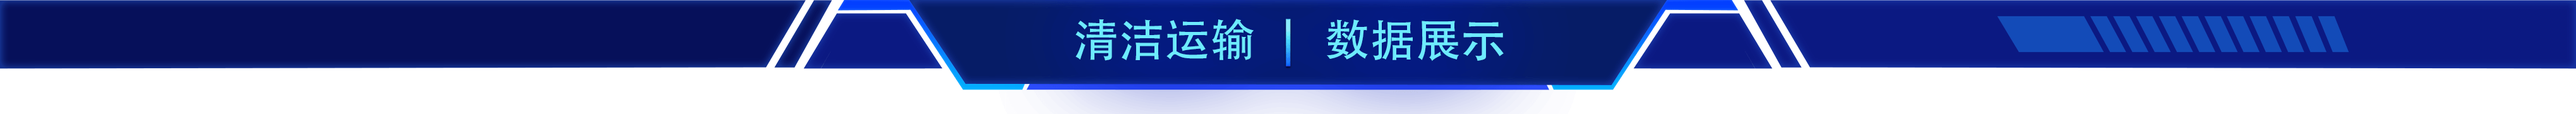
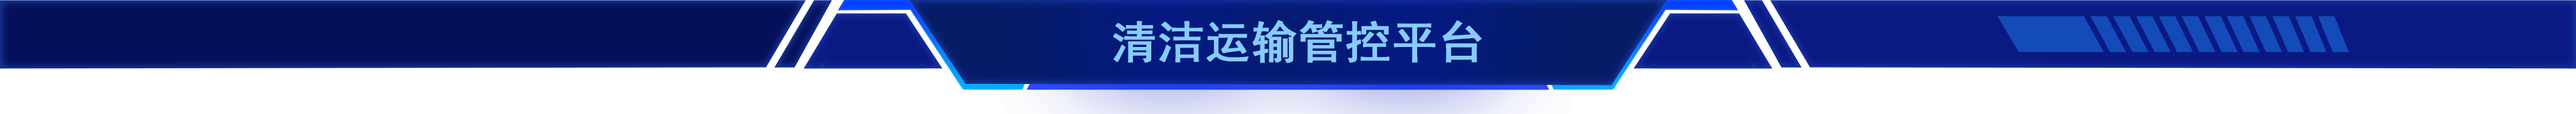
车辆运输表格更改,系统名字修改

Changed region(s): [[0.4048, 0.1648, 0.5916, 0.5495]]

diff --git a/html/view.html b/html/view.html
@@ -4,7 +4,7 @@
     <meta charset="UTF-8">
     <meta http-equiv='X-UA-Compatible' content='IE=edge,chrome=1'/>
     <meta name="viewport" content="width=device-width, initial-scale=1">
-    <title>清洁运输数据展示</title>
+    <title>清洁运输管控平台</title>
     <link rel="stylesheet" href="https://cdn.jsdelivr.net/npm/bootstrap@3.3.7/dist/css/bootstrap.min.css"
           integrity="sha384-BVYiiSIFeK1dGmJRAkycuHAHRg32OmUcww7on3RYdg4Va+PmSTsz/K68vbdEjh4u" crossorigin="anonymous">
     <link rel="stylesheet" href="../css/reset.css">
@@ -30,107 +30,167 @@
                             <thead>
                             <tr>
                                 <th>进厂时间</th>
+                                <th>进厂过磅时间</th>
+                                <th>出厂过磅时间</th>
                                 <th>出厂时间</th>
                                 <th>照片</th>
-                                <th>运输单位</th>
-                                <th>集装箱号</th>
+                                <th>门岗名称</th>
+                                <th>磅房名称</th>
                                 <th>车牌号</th>
                                 <th>注册日期</th>
                                 <th>车辆识别代号(VIN)</th>
                                 <th>发动机号码</th>
-                                <th>排放阶段</th>
+                                <th>燃油种类</th>
                                 <th>随车清单</th>
                                 <th>行驶证</th>
-                                <th>运输货物名称</th>
-                                <th>运输量(吨)</th>
-                                <th>车队名称</th>
+                                <th>排放阶段</th>
+                                <th>供应商</th>
+                                <th>物料编码</th>
+                                <th>物料名称</th>
+                                <th>计量单号</th>
+                                <th>毛重</th>
+                                <th>皮重</th>
+                                <th>净重</th>
+                                <th>集装箱号</th>
+                                <th>运输方式</th>
+                                <th>运输单位</th>
                             </tr>
                             </thead>
                             <tbody class>
                                 <tr>
                                     <td>2020-7-22 10:00:0</td>
+                                    <td>2020-7-22 10:00:0</td>
+                                    <td>2020-7-22 17:00:0</td>
                                     <td>2020-7-22 17:00:0</td>
                                     <td><img class="table-img" src="../img/test.jpg" alt=""></td>
-                                    <td>公司名字</td>
+                                    <td>名字</td>
+                                    <td>名字</td>
                                     <td>99999999</td>
-                                    <td>12345</td>
                                     <td>2020-7-21 17:00:0</td>
+                                    <td>12345</td>
                                     <td>777</td>
-                                    <td>809889</td>
+                                    <td>柴油</td>
+                                    <td><img class="table-img" src="../img/test.jpg" alt=""></td>
+                                    <td><img class="table-img" src="../img/test.jpg" alt=""></td>
                                     <td>国0:0</td>
-                                    <td><img class="table-img" src="../img/test.jpg" alt=""></td>
-                                    <td><img class="table-img" src="../img/test.jpg" alt=""></td>
-                                    <td>钢渣</td>
+                                    <td>名字</td>
                                     <td>1</td>
-                                    <td>自有</td>
+                                    <td>物料1</td>
+                                    <td>888</td>
+                                    <td>2</td>
+                                    <td>4</td>
+                                    <td>6</td>
+                                    <td>999999</td>
+                                    <td>铁路</td>
+                                    <td>公司1</td>
                                 </tr>
                                 <tr>
                                     <td>2020-7-22 10:00:0</td>
+                                    <td>2020-7-22 10:00:0</td>
+                                    <td>2020-7-22 17:00:0</td>
                                     <td>2020-7-22 17:00:0</td>
                                     <td><img class="table-img" src="../img/test.jpg" alt=""></td>
-                                    <td>公司名字</td>
+                                    <td>名字</td>
+                                    <td>名字</td>
                                     <td>99999999</td>
-                                    <td>12345</td>
                                     <td>2020-7-21 17:00:0</td>
+                                    <td>12345</td>
                                     <td>777</td>
-                                    <td>809889</td>
+                                    <td>柴油</td>
+                                    <td><img class="table-img" src="../img/test.jpg" alt=""></td>
+                                    <td><img class="table-img" src="../img/test.jpg" alt=""></td>
                                     <td>国0:0</td>
-                                    <td><img class="table-img" src="../img/test.jpg" alt=""></td>
-                                    <td><img class="table-img" src="../img/test.jpg" alt=""></td>
-                                    <td>钢渣</td>
+                                    <td>名字</td>
                                     <td>1</td>
-                                    <td>自有</td>
+                                    <td>物料1</td>
+                                    <td>888</td>
+                                    <td>2</td>
+                                    <td>4</td>
+                                    <td>6</td>
+                                    <td>999999</td>
+                                    <td>铁路</td>
+                                    <td>公司1</td>
                                 </tr>
                                 <tr>
                                     <td>2020-7-22 10:00:0</td>
+                                    <td>2020-7-22 10:00:0</td>
+                                    <td>2020-7-22 17:00:0</td>
                                     <td>2020-7-22 17:00:0</td>
                                     <td><img class="table-img" src="../img/test.jpg" alt=""></td>
-                                    <td>公司名字</td>
+                                    <td>名字</td>
+                                    <td>名字</td>
                                     <td>99999999</td>
-                                    <td>12345</td>
                                     <td>2020-7-21 17:00:0</td>
+                                    <td>12345</td>
                                     <td>777</td>
-                                    <td>809889</td>
+                                    <td>柴油</td>
+                                    <td><img class="table-img" src="../img/test.jpg" alt=""></td>
+                                    <td><img class="table-img" src="../img/test.jpg" alt=""></td>
                                     <td>国0:0</td>
-                                    <td><img class="table-img" src="../img/test.jpg" alt=""></td>
-                                    <td><img class="table-img" src="../img/test.jpg" alt=""></td>
-                                    <td>钢渣</td>
+                                    <td>名字</td>
                                     <td>1</td>
-                                    <td>自有</td>
+                                    <td>物料1</td>
+                                    <td>888</td>
+                                    <td>2</td>
+                                    <td>4</td>
+                                    <td>6</td>
+                                    <td>999999</td>
+                                    <td>铁路</td>
+                                    <td>公司1</td>
                                 </tr>
                                 <tr>
                                     <td>2020-7-22 10:00:0</td>
+                                    <td>2020-7-22 10:00:0</td>
+                                    <td>2020-7-22 17:00:0</td>
                                     <td>2020-7-22 17:00:0</td>
                                     <td><img class="table-img" src="../img/test.jpg" alt=""></td>
-                                    <td>公司名字</td>
+                                    <td>名字</td>
+                                    <td>名字</td>
                                     <td>99999999</td>
-                                    <td>12345</td>
                                     <td>2020-7-21 17:00:0</td>
+                                    <td>12345</td>
                                     <td>777</td>
-                                    <td>809889</td>
+                                    <td>柴油</td>
+                                    <td><img class="table-img" src="../img/test.jpg" alt=""></td>
+                                    <td><img class="table-img" src="../img/test.jpg" alt=""></td>
                                     <td>国0:0</td>
-                                    <td><img class="table-img" src="../img/test.jpg" alt=""></td>
-                                    <td><img class="table-img" src="../img/test.jpg" alt=""></td>
-                                    <td>钢渣</td>
+                                    <td>名字</td>
                                     <td>1</td>
-                                    <td>自有</td>
+                                    <td>物料1</td>
+                                    <td>888</td>
+                                    <td>2</td>
+                                    <td>4</td>
+                                    <td>6</td>
+                                    <td>999999</td>
+                                    <td>铁路</td>
+                                    <td>公司1</td>
                                 </tr>
                                 <tr>
                                     <td>2020-7-22 10:00:0</td>
+                                    <td>2020-7-22 10:00:0</td>
+                                    <td>2020-7-22 17:00:0</td>
                                     <td>2020-7-22 17:00:0</td>
                                     <td><img class="table-img" src="../img/test.jpg" alt=""></td>
-                                    <td>公司名字</td>
+                                    <td>名字</td>
+                                    <td>名字</td>
                                     <td>99999999</td>
-                                    <td>12345</td>
                                     <td>2020-7-21 17:00:0</td>
+                                    <td>12345</td>
                                     <td>777</td>
-                                    <td>809889</td>
+                                    <td>柴油</td>
+                                    <td><img class="table-img" src="../img/test.jpg" alt=""></td>
+                                    <td><img class="table-img" src="../img/test.jpg" alt=""></td>
                                     <td>国0:0</td>
-                                    <td><img class="table-img" src="../img/test.jpg" alt=""></td>
-                                    <td><img class="table-img" src="../img/test.jpg" alt=""></td>
-                                    <td>钢渣</td>
+                                    <td>名字</td>
                                     <td>1</td>
-                                    <td>自有</td>
+                                    <td>物料1</td>
+                                    <td>888</td>
+                                    <td>2</td>
+                                    <td>4</td>
+                                    <td>6</td>
+                                    <td>999999</td>
+                                    <td>铁路</td>
+                                    <td>公司1</td>
                                 </tr>
                             </tbody>
                         </table>
